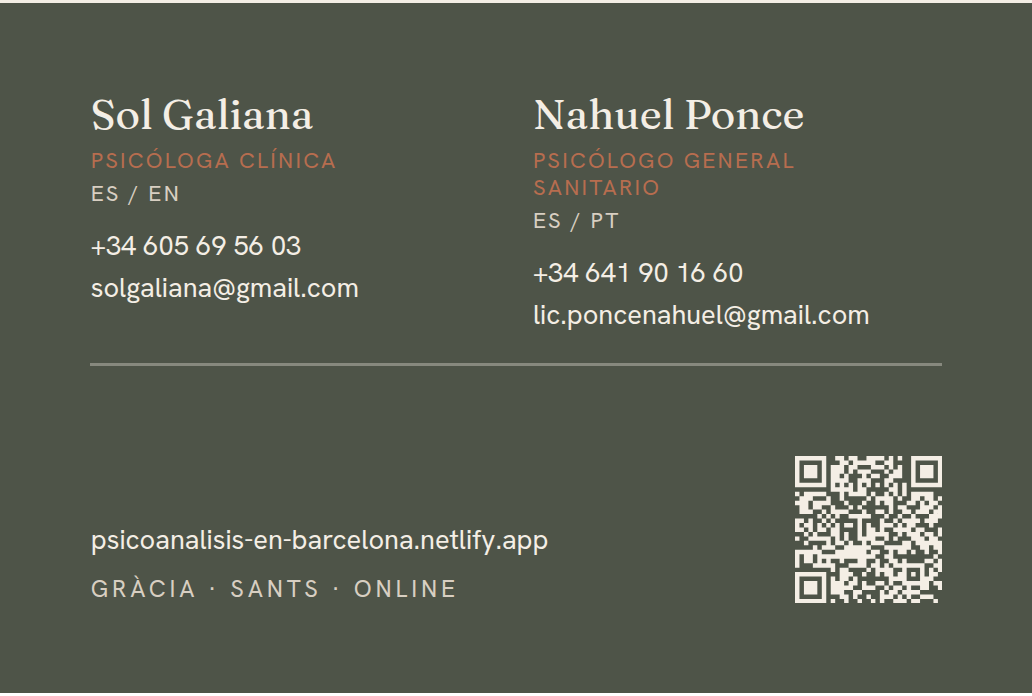
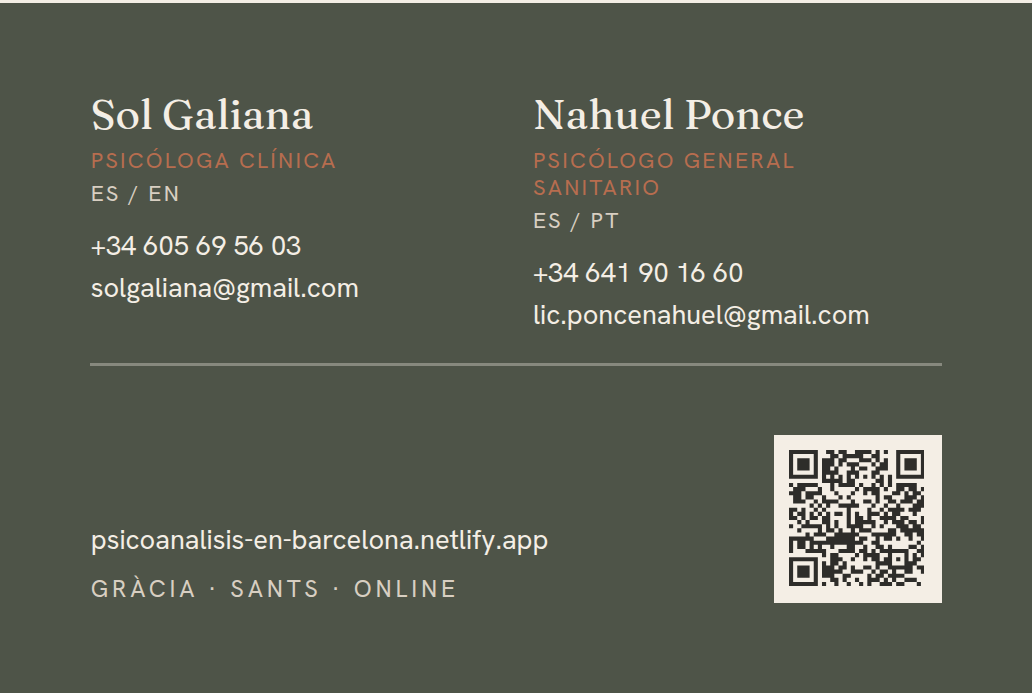
Tarjeta conjunta: QR oscuro sobre placa clara (legible por cualquier teléfono)
Claude-Session: https://claude.ai/code/session_01VPaAZWfLtWADny7p86mT9X

Changed region(s): [[0.7442, 0.6034, 0.9302, 0.875]]

diff --git a/psicologia-barcelona/marca/_build/out/Psicoanalisis-en-Barcelona_Tarjeta.html b/psicologia-barcelona/marca/_build/out/Psicoanalisis-en-Barcelona_Tarjeta.html
@@ -41,4 +41,4 @@ p { margin: 0; }
   <div class="abs" style="left:47mm;top:8mm;width:34mm"><p class="serif" style="font-size:10.5pt;line-height:1.1">Nahuel Ponce</p><p style="font-size:5.6pt;letter-spacing:.1em;text-transform:uppercase;color:#B76D4F;margin:.8mm 0 .4mm">Psicólogo General Sanitario</p><p style="font-size:5.6pt;letter-spacing:.1em;color:#D8CFC2;margin-bottom:1.6mm">ES / PT</p><p style="font-size:6.8pt;line-height:1.55">+34 641 90 16 60</p><p style="font-size:6.8pt;line-height:1.55">lic.poncenahuel@gmail.com</p></div>
   <div class="abs" style="left:8mm;right:8mm;top:32mm;height:.2mm;background:rgba(244,238,229,.35)"></div>
   <div class="abs" style="left:8mm;bottom:8mm"><p style="font-size:6.8pt">psicoanalisis-en-barcelona.netlify.app</p><p style="font-size:6pt;letter-spacing:.16em;text-transform:uppercase;margin-top:1.2mm;color:#D8CFC2">Gràcia · Sants · Online</p></div>
-  <div class="abs" style="right:8mm;bottom:8mm"><svg style="width:13mm;height:13mm;display:block" width="33mm" height="33mm" version="1.1" viewBox="0 0 33 33" xmlns="http://www.w3.org/2000/svg"><path d="M0,0H1V1H0zM1,0H2V1H1zM2,0H3V1H2zM3,0H4V1H3zM4,0H5V1H4zM5,0H6V1H5zM6,0H7V1H6zM9,0H10V1H9zM10,0H11V1H10zM12,0H13V1H12zM13,0H14V1H13zM16,0H17V1H16zM17,0H18V1H17zM18,0H19V1H18zM19,0H20V1H19zM21,0H22V1H21zM23,0H24V1H23zM26,0H27V1H26zM27,0H28V1H27zM28,0H29V1H28zM29,0H30V1H29zM30,0H31V1H30zM31,0H32V1H31zM32,0H33V1H32zM0,1H1V2H0zM6,1H7V2H6zM10,1H11V2H10zM11,1H12V2H11zM13,1H14V2H13zM14,1H15V2H14zM15,1H16V2H15zM16,1H17V2H16zM17,1H18V2H17zM20,1H21V2H20zM21,1H22V2H21zM26,1H27V2H26zM32,1H33V2H32zM0,2H1V3H0zM2,2H3V3H2zM3,2H4V3H3zM4,2H5V3H4zM6,2H7V3H6zM8,2H9V3H8zM9,2H10V3H9zM10,2H11V3H10zM12,2H13V3H12zM13,2H14V3H13zM17,2H18V3H17zM18,2H19V3H18zM19,2H20V3H19zM21,2H22V3H21zM23,2H24V3H23zM26,2H27V3H26zM28,2H29V3H28zM29,2H30V3H29zM30,2H31V3H30zM32,2H33V3H32zM0,3H1V4H0zM2,3H3V4H2zM3,3H4V4H3zM4,3H5V4H4zM6,3H7V4H6zM8,3H9V4H8zM9,3H10V4H9zM10,3H11V4H10zM12,3H13V4H12zM14,3H15V4H14zM15,3H16V4H15zM16,3H17V4H16zM20,3H21V4H20zM22,3H23V4H22zM23,3H24V4H23zM26,3H27V4H26zM28,3H29V4H28zM29,3H30V4H29zM30,3H31V4H30zM32,3H33V4H32zM0,4H1V5H0zM2,4H3V5H2zM3,4H4V5H3zM4,4H5V5H4zM6,4H7V5H6zM8,4H9V5H8zM9,4H10V5H9zM11,4H12V5H11zM15,4H16V5H15zM17,4H18V5H17zM18,4H19V5H18zM21,4H22V5H21zM22,4H23V5H22zM23,4H24V5H23zM26,4H27V5H26zM28,4H29V5H28zM29,4H30V5H29zM30,4H31V5H30zM32,4H33V5H32zM0,5H1V6H0zM6,5H7V6H6zM8,5H9V6H8zM9,5H10V6H9zM10,5H11V6H10zM11,5H12V6H11zM14,5H15V6H14zM15,5H16V6H15zM16,5H17V6H16zM20,5H21V6H20zM21,5H22V6H21zM26,5H27V6H26zM32,5H33V6H32zM0,6H1V7H0zM1,6H2V7H1zM2,6H3V7H2zM3,6H4V7H3zM4,6H5V7H4zM5,6H6V7H5zM6,6H7V7H6zM8,6H9V7H8zM10,6H11V7H10zM12,6H13V7H12zM14,6H15V7H14zM16,6H17V7H16zM18,6H19V7H18zM20,6H21V7H20zM22,6H23V7H22zM24,6H25V7H24zM26,6H27V7H26zM27,6H28V7H27zM28,6H29V7H28zM29,6H30V7H29zM30,6H31V7H30zM31,6H32V7H31zM32,6H33V7H32zM8,7H9V8H8zM9,7H10V8H9zM10,7H11V8H10zM11,7H12V8H11zM12,7H13V8H12zM14,7H15V8H14zM15,7H16V8H15zM21,7H22V8H21zM22,7H23V8H22zM24,7H25V8H24zM0,8H1V9H0zM2,8H3V9H2zM3,8H4V9H3zM4,8H5V9H4zM5,8H6V9H5zM6,8H7V9H6zM10,8H11V9H10zM12,8H13V9H12zM13,8H14V9H13zM14,8H15V9H14zM15,8H16V9H15zM17,8H18V9H17zM20,8H21V9H20zM22,8H23V9H22zM24,8H25V9H24zM26,8H27V9H26zM27,8H28V9H27zM28,8H29V9H28zM29,8H30V9H29zM30,8H31V9H30zM1,9H2V10H1zM2,9H3V10H2zM3,9H4V10H3zM7,9H8V10H7zM10,9H11V10H10zM16,9H17V10H16zM18,9H19V10H18zM19,9H20V10H19zM20,9H21V10H20zM21,9H22V10H21zM23,9H24V10H23zM26,9H27V10H26zM27,9H28V10H27zM29,9H30V10H29zM30,9H31V10H30zM32,9H33V10H32zM0,10H1V11H0zM1,10H2V11H1zM2,10H3V11H2zM4,10H5V11H4zM5,10H6V11H5zM6,10H7V11H6zM7,10H8V11H7zM11,10H12V11H11zM15,10H16V11H15zM18,10H19V11H18zM20,10H21V11H20zM21,10H22V11H21zM25,10H26V11H25zM26,10H27V11H26zM28,10H29V11H28zM30,10H31V11H30zM31,10H32V11H31zM1,11H2V12H1zM2,11H3V12H2zM4,11H5V12H4zM5,11H6V12H5zM8,11H9V12H8zM12,11H13V12H12zM14,11H15V12H14zM21,11H22V12H21zM23,11H24V12H23zM24,11H25V12H24zM28,11H29V12H28zM29,11H30V12H29zM30,11H31V12H30zM32,11H33V12H32zM1,12H2V13H1zM2,12H3V13H2zM3,12H4V13H3zM6,12H7V13H6zM8,12H9V13H8zM9,12H10V13H9zM10,12H11V13H10zM11,12H12V13H11zM15,12H16V13H15zM18,12H19V13H18zM19,12H20V13H19zM21,12H22V13H21zM24,12H25V13H24zM25,12H26V13H25zM27,12H28V13H27zM28,12H29V13H28zM29,12H30V13H29zM31,12H32V13H31zM32,12H33V13H32zM5,13H6V14H5zM7,13H8V14H7zM9,13H10V14H9zM12,13H13V14H12zM13,13H14V14H13zM14,13H15V14H14zM15,13H16V14H15zM16,13H17V14H16zM20,13H21V14H20zM23,13H24V14H23zM26,13H27V14H26zM30,13H31V14H30zM31,13H32V14H31zM32,13H33V14H32zM0,14H1V15H0zM1,14H2V15H1zM3,14H4V15H3zM6,14H7V15H6zM8,14H9V15H8zM14,14H15V15H14zM19,14H20V15H19zM22,14H23V15H22zM24,14H25V15H24zM25,14H26V15H25zM26,14H27V15H26zM27,14H28V15H27zM29,14H30V15H29zM30,14H31V15H30zM31,14H32V15H31zM0,15H1V16H0zM2,15H3V16H2zM3,15H4V16H3zM5,15H6V16H5zM7,15H8V16H7zM9,15H10V16H9zM11,15H12V16H11zM12,15H13V16H12zM14,15H15V16H14zM16,15H17V16H16zM19,15H20V16H19zM20,15H21V16H20zM21,15H22V16H21zM23,15H24V16H23zM25,15H26V16H25zM26,15H27V16H26zM30,15H31V16H30zM0,16H1V17H0zM1,16H2V17H1zM3,16H4V17H3zM5,16H6V17H5zM6,16H7V17H6zM8,16H9V17H8zM9,16H10V17H9zM14,16H15V17H14zM16,16H17V17H16zM17,16H18V17H17zM19,16H20V17H19zM22,16H23V17H22zM23,16H24V17H23zM24,16H25V17H24zM25,16H26V17H25zM27,16H28V17H27zM28,16H29V17H28zM32,16H33V17H32zM2,17H3V18H2zM4,17H5V18H4zM8,17H9V18H8zM9,17H10V18H9zM11,17H12V18H11zM14,17H15V18H14zM16,17H17V18H16zM17,17H18V18H17zM18,17H19V18H18zM19,17H20V18H19zM20,17H21V18H20zM23,17H24V18H23zM25,17H26V18H25zM26,17H27V18H26zM27,17H28V18H27zM29,17H30V18H29zM30,17H31V18H30zM32,17H33V18H32zM0,18H1V19H0zM3,18H4V19H3zM4,18H5V19H4zM5,18H6V19H5zM6,18H7V19H6zM7,18H8V19H7zM9,18H10V19H9zM11,18H12V19H11zM14,18H15V19H14zM15,18H16V19H15zM16,18H17V19H16zM17,18H18V19H17zM20,18H21V19H20zM22,18H23V19H22zM26,18H27V19H26zM27,18H28V19H27zM28,18H29V19H28zM30,18H31V19H30zM31,18H32V19H31zM2,19H3V20H2zM7,19H8V20H7zM9,19H10V20H9zM10,19H11V20H10zM12,19H13V20H12zM15,19H16V20H15zM17,19H18V20H17zM18,19H19V20H18zM19,19H20V20H19zM24,19H25V20H24zM25,19H26V20H25zM27,19H28V20H27zM28,19H29V20H28zM29,19H30V20H29zM30,19H31V20H30zM31,19H32V20H31zM32,19H33V20H32zM4,20H5V21H4zM6,20H7V21H6zM7,20H8V21H7zM8,20H9V21H8zM11,20H12V21H11zM12,20H13V21H12zM13,20H14V21H13zM14,20H15V21H14zM15,20H16V21H15zM16,20H17V21H16zM20,20H21V21H20zM21,20H22V21H21zM22,20H23V21H22zM23,20H24V21H23zM24,20H25V21H24zM25,20H26V21H25zM28,20H29V21H28zM29,20H30V21H29zM31,20H32V21H31zM32,20H33V21H32zM0,21H1V22H0zM1,21H2V22H1zM2,21H3V22H2zM3,21H4V22H3zM4,21H5V22H4zM5,21H6V22H5zM9,21H10V22H9zM10,21H11V22H10zM11,21H12V22H11zM12,21H13V22H12zM13,21H14V22H13zM14,21H15V22H14zM15,21H16V22H15zM17,21H18V22H17zM18,21H19V22H18zM21,21H22V22H21zM23,21H24V22H23zM24,21H25V22H24zM26,21H27V22H26zM29,21H30V22H29zM32,21H33V22H32zM0,22H1V23H0zM2,22H3V23H2zM3,22H4V23H3zM5,22H6V23H5zM6,22H7V23H6zM7,22H8V23H7zM8,22H9V23H8zM9,22H10V23H9zM10,22H11V23H10zM11,22H12V23H11zM12,22H13V23H12zM13,22H14V23H13zM14,22H15V23H14zM15,22H16V23H15zM16,22H17V23H16zM17,22H18V23H17zM20,22H21V23H20zM21,22H22V23H21zM31,22H32V23H31zM0,23H1V24H0zM2,23H3V24H2zM3,23H4V24H3zM5,23H6V24H5zM7,23H8V24H7zM10,23H11V24H10zM14,23H15V24H14zM15,23H16V24H15zM18,23H19V24H18zM21,23H22V24H21zM22,23H23V24H22zM24,23H25V24H24zM29,23H30V24H29zM30,23H31V24H30zM32,23H33V24H32zM0,24H1V25H0zM4,24H5V25H4zM5,24H6V25H5zM6,24H7V25H6zM7,24H8V25H7zM8,24H9V25H8zM12,24H13V25H12zM13,24H14V25H13zM14,24H15V25H14zM15,24H16V25H15zM17,24H18V25H17zM18,24H19V25H18zM20,24H21V25H20zM22,24H23V25H22zM23,24H24V25H23zM24,24H25V25H24zM25,24H26V25H25zM26,24H27V25H26zM27,24H28V25H27zM28,24H29V25H28zM31,24H32V25H31zM32,24H33V25H32zM8,25H9V26H8zM10,25H11V26H10zM11,25H12V26H11zM16,25H17V26H16zM18,25H19V26H18zM19,25H20V26H19zM20,25H21V26H20zM21,25H22V26H21zM24,25H25V26H24zM28,25H29V26H28zM30,25H31V26H30zM32,25H33V26H32zM0,26H1V27H0zM1,26H2V27H1zM2,26H3V27H2zM3,26H4V27H3zM4,26H5V27H4zM5,26H6V27H5zM6,26H7V27H6zM10,26H11V27H10zM11,26H12V27H11zM12,26H13V27H12zM15,26H16V27H15zM18,26H19V27H18zM20,26H21V27H20zM21,26H22V27H21zM23,26H24V27H23zM24,26H25V27H24zM26,26H27V27H26zM28,26H29V27H28zM30,26H31V27H30zM31,26H32V27H31zM0,27H1V28H0zM6,27H7V28H6zM8,27H9V28H8zM10,27H11V28H10zM11,27H12V28H11zM13,27H14V28H13zM21,27H22V28H21zM22,27H23V28H22zM23,27H24V28H23zM24,27H25V28H24zM28,27H29V28H28zM29,27H30V28H29zM30,27H31V28H30zM0,28H1V29H0zM2,28H3V29H2zM3,28H4V29H3zM4,28H5V29H4zM6,28H7V29H6zM8,28H9V29H8zM9,28H10V29H9zM10,28H11V29H10zM12,28H13V29H12zM13,28H14V29H13zM15,28H16V29H15zM18,28H19V29H18zM19,28H20V29H19zM21,28H22V29H21zM24,28H25V29H24zM25,28H26V29H25zM26,28H27V29H26zM27,28H28V29H27zM28,28H29V29H28zM29,28H30V29H29zM31,28H32V29H31zM32,28H33V29H32zM0,29H1V30H0zM2,29H3V30H2zM3,29H4V30H3zM4,29H5V30H4zM6,29H7V30H6zM8,29H9V30H8zM9,29H10V30H9zM10,29H11V30H10zM11,29H12V30H11zM12,29H13V30H12zM15,29H16V30H15zM16,29H17V30H16zM17,29H18V30H17zM20,29H21V30H20zM22,29H23V30H22zM23,29H24V30H23zM25,29H26V30H25zM28,29H29V30H28zM29,29H30V30H29zM32,29H33V30H32zM0,30H1V31H0zM2,30H3V31H2zM3,30H4V31H3zM4,30H5V31H4zM6,30H7V31H6zM8,30H9V31H8zM9,30H10V31H9zM10,30H11V31H10zM13,30H14V31H13zM14,30H15V31H14zM19,30H20V31H19zM21,30H22V31H21zM22,30H23V31H22zM24,30H25V31H24zM25,30H26V31H25zM26,30H27V31H26zM27,30H28V31H27zM0,31H1V32H0zM6,31H7V32H6zM10,31H11V32H10zM11,31H12V32H11zM13,31H14V32H13zM16,31H17V32H16zM19,31H20V32H19zM20,31H21V32H20zM21,31H22V32H21zM23,31H24V32H23zM25,31H26V32H25zM28,31H29V32H28zM29,31H30V32H29zM30,31H31V32H30zM0,32H1V33H0zM1,32H2V33H1zM2,32H3V33H2zM3,32H4V33H3zM4,32H5V33H4zM5,32H6V33H5zM6,32H7V33H6zM8,32H9V33H8zM11,32H12V33H11zM14,32H15V33H14zM17,32H18V33H17zM19,32H20V33H19zM22,32H23V33H22zM23,32H24V33H23zM24,32H25V33H24zM26,32H27V33H26zM27,32H28V33H27zM31,32H32V33H31z" id="qr-path" fill="#F4EEE5" fill-opacity="1" fill-rule="nonzero" stroke="none" /></svg></div></div></body></html>
+  <div class="abs" style="right:8mm;bottom:8mm;padding:1.4mm;background:#F4EEE5"><svg style="width:12mm;height:12mm;display:block" width="33mm" height="33mm" version="1.1" viewBox="0 0 33 33" xmlns="http://www.w3.org/2000/svg"><path d="M0,0H1V1H0zM1,0H2V1H1zM2,0H3V1H2zM3,0H4V1H3zM4,0H5V1H4zM5,0H6V1H5zM6,0H7V1H6zM9,0H10V1H9zM10,0H11V1H10zM12,0H13V1H12zM13,0H14V1H13zM16,0H17V1H16zM17,0H18V1H17zM18,0H19V1H18zM19,0H20V1H19zM21,0H22V1H21zM23,0H24V1H23zM26,0H27V1H26zM27,0H28V1H27zM28,0H29V1H28zM29,0H30V1H29zM30,0H31V1H30zM31,0H32V1H31zM32,0H33V1H32zM0,1H1V2H0zM6,1H7V2H6zM10,1H11V2H10zM11,1H12V2H11zM13,1H14V2H13zM14,1H15V2H14zM15,1H16V2H15zM16,1H17V2H16zM17,1H18V2H17zM20,1H21V2H20zM21,1H22V2H21zM26,1H27V2H26zM32,1H33V2H32zM0,2H1V3H0zM2,2H3V3H2zM3,2H4V3H3zM4,2H5V3H4zM6,2H7V3H6zM8,2H9V3H8zM9,2H10V3H9zM10,2H11V3H10zM12,2H13V3H12zM13,2H14V3H13zM17,2H18V3H17zM18,2H19V3H18zM19,2H20V3H19zM21,2H22V3H21zM23,2H24V3H23zM26,2H27V3H26zM28,2H29V3H28zM29,2H30V3H29zM30,2H31V3H30zM32,2H33V3H32zM0,3H1V4H0zM2,3H3V4H2zM3,3H4V4H3zM4,3H5V4H4zM6,3H7V4H6zM8,3H9V4H8zM9,3H10V4H9zM10,3H11V4H10zM12,3H13V4H12zM14,3H15V4H14zM15,3H16V4H15zM16,3H17V4H16zM20,3H21V4H20zM22,3H23V4H22zM23,3H24V4H23zM26,3H27V4H26zM28,3H29V4H28zM29,3H30V4H29zM30,3H31V4H30zM32,3H33V4H32zM0,4H1V5H0zM2,4H3V5H2zM3,4H4V5H3zM4,4H5V5H4zM6,4H7V5H6zM8,4H9V5H8zM9,4H10V5H9zM11,4H12V5H11zM15,4H16V5H15zM17,4H18V5H17zM18,4H19V5H18zM21,4H22V5H21zM22,4H23V5H22zM23,4H24V5H23zM26,4H27V5H26zM28,4H29V5H28zM29,4H30V5H29zM30,4H31V5H30zM32,4H33V5H32zM0,5H1V6H0zM6,5H7V6H6zM8,5H9V6H8zM9,5H10V6H9zM10,5H11V6H10zM11,5H12V6H11zM14,5H15V6H14zM15,5H16V6H15zM16,5H17V6H16zM20,5H21V6H20zM21,5H22V6H21zM26,5H27V6H26zM32,5H33V6H32zM0,6H1V7H0zM1,6H2V7H1zM2,6H3V7H2zM3,6H4V7H3zM4,6H5V7H4zM5,6H6V7H5zM6,6H7V7H6zM8,6H9V7H8zM10,6H11V7H10zM12,6H13V7H12zM14,6H15V7H14zM16,6H17V7H16zM18,6H19V7H18zM20,6H21V7H20zM22,6H23V7H22zM24,6H25V7H24zM26,6H27V7H26zM27,6H28V7H27zM28,6H29V7H28zM29,6H30V7H29zM30,6H31V7H30zM31,6H32V7H31zM32,6H33V7H32zM8,7H9V8H8zM9,7H10V8H9zM10,7H11V8H10zM11,7H12V8H11zM12,7H13V8H12zM14,7H15V8H14zM15,7H16V8H15zM21,7H22V8H21zM22,7H23V8H22zM24,7H25V8H24zM0,8H1V9H0zM2,8H3V9H2zM3,8H4V9H3zM4,8H5V9H4zM5,8H6V9H5zM6,8H7V9H6zM10,8H11V9H10zM12,8H13V9H12zM13,8H14V9H13zM14,8H15V9H14zM15,8H16V9H15zM17,8H18V9H17zM20,8H21V9H20zM22,8H23V9H22zM24,8H25V9H24zM26,8H27V9H26zM27,8H28V9H27zM28,8H29V9H28zM29,8H30V9H29zM30,8H31V9H30zM1,9H2V10H1zM2,9H3V10H2zM3,9H4V10H3zM7,9H8V10H7zM10,9H11V10H10zM16,9H17V10H16zM18,9H19V10H18zM19,9H20V10H19zM20,9H21V10H20zM21,9H22V10H21zM23,9H24V10H23zM26,9H27V10H26zM27,9H28V10H27zM29,9H30V10H29zM30,9H31V10H30zM32,9H33V10H32zM0,10H1V11H0zM1,10H2V11H1zM2,10H3V11H2zM4,10H5V11H4zM5,10H6V11H5zM6,10H7V11H6zM7,10H8V11H7zM11,10H12V11H11zM15,10H16V11H15zM18,10H19V11H18zM20,10H21V11H20zM21,10H22V11H21zM25,10H26V11H25zM26,10H27V11H26zM28,10H29V11H28zM30,10H31V11H30zM31,10H32V11H31zM1,11H2V12H1zM2,11H3V12H2zM4,11H5V12H4zM5,11H6V12H5zM8,11H9V12H8zM12,11H13V12H12zM14,11H15V12H14zM21,11H22V12H21zM23,11H24V12H23zM24,11H25V12H24zM28,11H29V12H28zM29,11H30V12H29zM30,11H31V12H30zM32,11H33V12H32zM1,12H2V13H1zM2,12H3V13H2zM3,12H4V13H3zM6,12H7V13H6zM8,12H9V13H8zM9,12H10V13H9zM10,12H11V13H10zM11,12H12V13H11zM15,12H16V13H15zM18,12H19V13H18zM19,12H20V13H19zM21,12H22V13H21zM24,12H25V13H24zM25,12H26V13H25zM27,12H28V13H27zM28,12H29V13H28zM29,12H30V13H29zM31,12H32V13H31zM32,12H33V13H32zM5,13H6V14H5zM7,13H8V14H7zM9,13H10V14H9zM12,13H13V14H12zM13,13H14V14H13zM14,13H15V14H14zM15,13H16V14H15zM16,13H17V14H16zM20,13H21V14H20zM23,13H24V14H23zM26,13H27V14H26zM30,13H31V14H30zM31,13H32V14H31zM32,13H33V14H32zM0,14H1V15H0zM1,14H2V15H1zM3,14H4V15H3zM6,14H7V15H6zM8,14H9V15H8zM14,14H15V15H14zM19,14H20V15H19zM22,14H23V15H22zM24,14H25V15H24zM25,14H26V15H25zM26,14H27V15H26zM27,14H28V15H27zM29,14H30V15H29zM30,14H31V15H30zM31,14H32V15H31zM0,15H1V16H0zM2,15H3V16H2zM3,15H4V16H3zM5,15H6V16H5zM7,15H8V16H7zM9,15H10V16H9zM11,15H12V16H11zM12,15H13V16H12zM14,15H15V16H14zM16,15H17V16H16zM19,15H20V16H19zM20,15H21V16H20zM21,15H22V16H21zM23,15H24V16H23zM25,15H26V16H25zM26,15H27V16H26zM30,15H31V16H30zM0,16H1V17H0zM1,16H2V17H1zM3,16H4V17H3zM5,16H6V17H5zM6,16H7V17H6zM8,16H9V17H8zM9,16H10V17H9zM14,16H15V17H14zM16,16H17V17H16zM17,16H18V17H17zM19,16H20V17H19zM22,16H23V17H22zM23,16H24V17H23zM24,16H25V17H24zM25,16H26V17H25zM27,16H28V17H27zM28,16H29V17H28zM32,16H33V17H32zM2,17H3V18H2zM4,17H5V18H4zM8,17H9V18H8zM9,17H10V18H9zM11,17H12V18H11zM14,17H15V18H14zM16,17H17V18H16zM17,17H18V18H17zM18,17H19V18H18zM19,17H20V18H19zM20,17H21V18H20zM23,17H24V18H23zM25,17H26V18H25zM26,17H27V18H26zM27,17H28V18H27zM29,17H30V18H29zM30,17H31V18H30zM32,17H33V18H32zM0,18H1V19H0zM3,18H4V19H3zM4,18H5V19H4zM5,18H6V19H5zM6,18H7V19H6zM7,18H8V19H7zM9,18H10V19H9zM11,18H12V19H11zM14,18H15V19H14zM15,18H16V19H15zM16,18H17V19H16zM17,18H18V19H17zM20,18H21V19H20zM22,18H23V19H22zM26,18H27V19H26zM27,18H28V19H27zM28,18H29V19H28zM30,18H31V19H30zM31,18H32V19H31zM2,19H3V20H2zM7,19H8V20H7zM9,19H10V20H9zM10,19H11V20H10zM12,19H13V20H12zM15,19H16V20H15zM17,19H18V20H17zM18,19H19V20H18zM19,19H20V20H19zM24,19H25V20H24zM25,19H26V20H25zM27,19H28V20H27zM28,19H29V20H28zM29,19H30V20H29zM30,19H31V20H30zM31,19H32V20H31zM32,19H33V20H32zM4,20H5V21H4zM6,20H7V21H6zM7,20H8V21H7zM8,20H9V21H8zM11,20H12V21H11zM12,20H13V21H12zM13,20H14V21H13zM14,20H15V21H14zM15,20H16V21H15zM16,20H17V21H16zM20,20H21V21H20zM21,20H22V21H21zM22,20H23V21H22zM23,20H24V21H23zM24,20H25V21H24zM25,20H26V21H25zM28,20H29V21H28zM29,20H30V21H29zM31,20H32V21H31zM32,20H33V21H32zM0,21H1V22H0zM1,21H2V22H1zM2,21H3V22H2zM3,21H4V22H3zM4,21H5V22H4zM5,21H6V22H5zM9,21H10V22H9zM10,21H11V22H10zM11,21H12V22H11zM12,21H13V22H12zM13,21H14V22H13zM14,21H15V22H14zM15,21H16V22H15zM17,21H18V22H17zM18,21H19V22H18zM21,21H22V22H21zM23,21H24V22H23zM24,21H25V22H24zM26,21H27V22H26zM29,21H30V22H29zM32,21H33V22H32zM0,22H1V23H0zM2,22H3V23H2zM3,22H4V23H3zM5,22H6V23H5zM6,22H7V23H6zM7,22H8V23H7zM8,22H9V23H8zM9,22H10V23H9zM10,22H11V23H10zM11,22H12V23H11zM12,22H13V23H12zM13,22H14V23H13zM14,22H15V23H14zM15,22H16V23H15zM16,22H17V23H16zM17,22H18V23H17zM20,22H21V23H20zM21,22H22V23H21zM31,22H32V23H31zM0,23H1V24H0zM2,23H3V24H2zM3,23H4V24H3zM5,23H6V24H5zM7,23H8V24H7zM10,23H11V24H10zM14,23H15V24H14zM15,23H16V24H15zM18,23H19V24H18zM21,23H22V24H21zM22,23H23V24H22zM24,23H25V24H24zM29,23H30V24H29zM30,23H31V24H30zM32,23H33V24H32zM0,24H1V25H0zM4,24H5V25H4zM5,24H6V25H5zM6,24H7V25H6zM7,24H8V25H7zM8,24H9V25H8zM12,24H13V25H12zM13,24H14V25H13zM14,24H15V25H14zM15,24H16V25H15zM17,24H18V25H17zM18,24H19V25H18zM20,24H21V25H20zM22,24H23V25H22zM23,24H24V25H23zM24,24H25V25H24zM25,24H26V25H25zM26,24H27V25H26zM27,24H28V25H27zM28,24H29V25H28zM31,24H32V25H31zM32,24H33V25H32zM8,25H9V26H8zM10,25H11V26H10zM11,25H12V26H11zM16,25H17V26H16zM18,25H19V26H18zM19,25H20V26H19zM20,25H21V26H20zM21,25H22V26H21zM24,25H25V26H24zM28,25H29V26H28zM30,25H31V26H30zM32,25H33V26H32zM0,26H1V27H0zM1,26H2V27H1zM2,26H3V27H2zM3,26H4V27H3zM4,26H5V27H4zM5,26H6V27H5zM6,26H7V27H6zM10,26H11V27H10zM11,26H12V27H11zM12,26H13V27H12zM15,26H16V27H15zM18,26H19V27H18zM20,26H21V27H20zM21,26H22V27H21zM23,26H24V27H23zM24,26H25V27H24zM26,26H27V27H26zM28,26H29V27H28zM30,26H31V27H30zM31,26H32V27H31zM0,27H1V28H0zM6,27H7V28H6zM8,27H9V28H8zM10,27H11V28H10zM11,27H12V28H11zM13,27H14V28H13zM21,27H22V28H21zM22,27H23V28H22zM23,27H24V28H23zM24,27H25V28H24zM28,27H29V28H28zM29,27H30V28H29zM30,27H31V28H30zM0,28H1V29H0zM2,28H3V29H2zM3,28H4V29H3zM4,28H5V29H4zM6,28H7V29H6zM8,28H9V29H8zM9,28H10V29H9zM10,28H11V29H10zM12,28H13V29H12zM13,28H14V29H13zM15,28H16V29H15zM18,28H19V29H18zM19,28H20V29H19zM21,28H22V29H21zM24,28H25V29H24zM25,28H26V29H25zM26,28H27V29H26zM27,28H28V29H27zM28,28H29V29H28zM29,28H30V29H29zM31,28H32V29H31zM32,28H33V29H32zM0,29H1V30H0zM2,29H3V30H2zM3,29H4V30H3zM4,29H5V30H4zM6,29H7V30H6zM8,29H9V30H8zM9,29H10V30H9zM10,29H11V30H10zM11,29H12V30H11zM12,29H13V30H12zM15,29H16V30H15zM16,29H17V30H16zM17,29H18V30H17zM20,29H21V30H20zM22,29H23V30H22zM23,29H24V30H23zM25,29H26V30H25zM28,29H29V30H28zM29,29H30V30H29zM32,29H33V30H32zM0,30H1V31H0zM2,30H3V31H2zM3,30H4V31H3zM4,30H5V31H4zM6,30H7V31H6zM8,30H9V31H8zM9,30H10V31H9zM10,30H11V31H10zM13,30H14V31H13zM14,30H15V31H14zM19,30H20V31H19zM21,30H22V31H21zM22,30H23V31H22zM24,30H25V31H24zM25,30H26V31H25zM26,30H27V31H26zM27,30H28V31H27zM0,31H1V32H0zM6,31H7V32H6zM10,31H11V32H10zM11,31H12V32H11zM13,31H14V32H13zM16,31H17V32H16zM19,31H20V32H19zM20,31H21V32H20zM21,31H22V32H21zM23,31H24V32H23zM25,31H26V32H25zM28,31H29V32H28zM29,31H30V32H29zM30,31H31V32H30zM0,32H1V33H0zM1,32H2V33H1zM2,32H3V33H2zM3,32H4V33H3zM4,32H5V33H4zM5,32H6V33H5zM6,32H7V33H6zM8,32H9V33H8zM11,32H12V33H11zM14,32H15V33H14zM17,32H18V33H17zM19,32H20V33H19zM22,32H23V33H22zM23,32H24V33H23zM24,32H25V33H24zM26,32H27V33H26zM27,32H28V33H27zM31,32H32V33H31z" id="qr-path" fill="#2E2D2A" fill-opacity="1" fill-rule="nonzero" stroke="none" /></svg></div></div></body></html>

diff --git a/psicologia-barcelona/marca/_build/out/Psicoanalisis-en-Barcelona_Tarjeta_canva.html b/psicologia-barcelona/marca/_build/out/Psicoanalisis-en-Barcelona_Tarjeta_canva.html
@@ -18,4 +18,4 @@ p { margin: 0; }
   <div class="abs" style="left:47mm;top:8mm;width:34mm"><p class="serif" style="font-size:10.5pt;line-height:1.1">Nahuel Ponce</p><p style="font-size:5.6pt;letter-spacing:.1em;text-transform:uppercase;color:#B76D4F;margin:.8mm 0 .4mm">Psicólogo General Sanitario</p><p style="font-size:5.6pt;letter-spacing:.1em;color:#D8CFC2;margin-bottom:1.6mm">ES / PT</p><p style="font-size:6.8pt;line-height:1.55">+34 641 90 16 60</p><p style="font-size:6.8pt;line-height:1.55">lic.poncenahuel@gmail.com</p></div>
   <div class="abs" style="left:8mm;right:8mm;top:32mm;height:.2mm;background:rgba(244,238,229,.35)"></div>
   <div class="abs" style="left:8mm;bottom:8mm"><p style="font-size:6.8pt">psicoanalisis-en-barcelona.netlify.app</p><p style="font-size:6pt;letter-spacing:.16em;text-transform:uppercase;margin-top:1.2mm;color:#D8CFC2">Gràcia · Sants · Online</p></div>
-  <div class="abs" style="right:8mm;bottom:8mm"><img src="https://raw.githubusercontent.com/lucascasagrande88/bighouse/refs/heads/claude/wizardly-planck-k8eqja/psicologia-barcelona/marca/_build/canva-img/qr-psicoanalisis-en-barcelona-F4EEE5.png" style="width:13mm;height:13mm;display:block" alt="QR"></div></div></body></html>
+  <div class="abs" style="right:8mm;bottom:8mm;padding:1.4mm;background:#F4EEE5"><img src="https://raw.githubusercontent.com/lucascasagrande88/bighouse/refs/heads/claude/wizardly-planck-k8eqja/psicologia-barcelona/marca/_build/canva-img/qr-psicoanalisis-en-barcelona-2E2D2A.png" style="width:12mm;height:12mm;display:block" alt="QR"></div></div></body></html>

diff --git a/psicologia-barcelona/marca/_build/stationery.py b/psicologia-barcelona/marca/_build/stationery.py
@@ -99,7 +99,7 @@ def card(key):
   <div class="abs" style="left:{m + 39}mm;top:{m}mm;width:34mm">{person(na, 'ES / PT')}</div>
   <div class="abs" style="left:{m}mm;right:{m}mm;top:{m + 24}mm;height:.2mm;background:rgba(244,238,229,.35)"></div>
   <div class="abs" style="left:{m}mm;bottom:{m}mm"><p style="font-size:6.8pt">{web}</p><p style="font-size:6pt;letter-spacing:.16em;text-transform:uppercase;margin-top:1.2mm;color:{t['soft']}">Gràcia · Sants · Online</p></div>
-  <div class="abs" style="right:{m}mm;bottom:{m}mm">{qr(web, t['on_dark'], '13mm')}</div></div>''')
+  <div class="abs" style="right:{m}mm;bottom:{m}mm;padding:1.4mm;background:{t['bg']}">{qr(web, t['ink'], '12mm')}</div></div>''')
     return html(t, W, H, s, f'Tarjeta · {f}')
 
 
